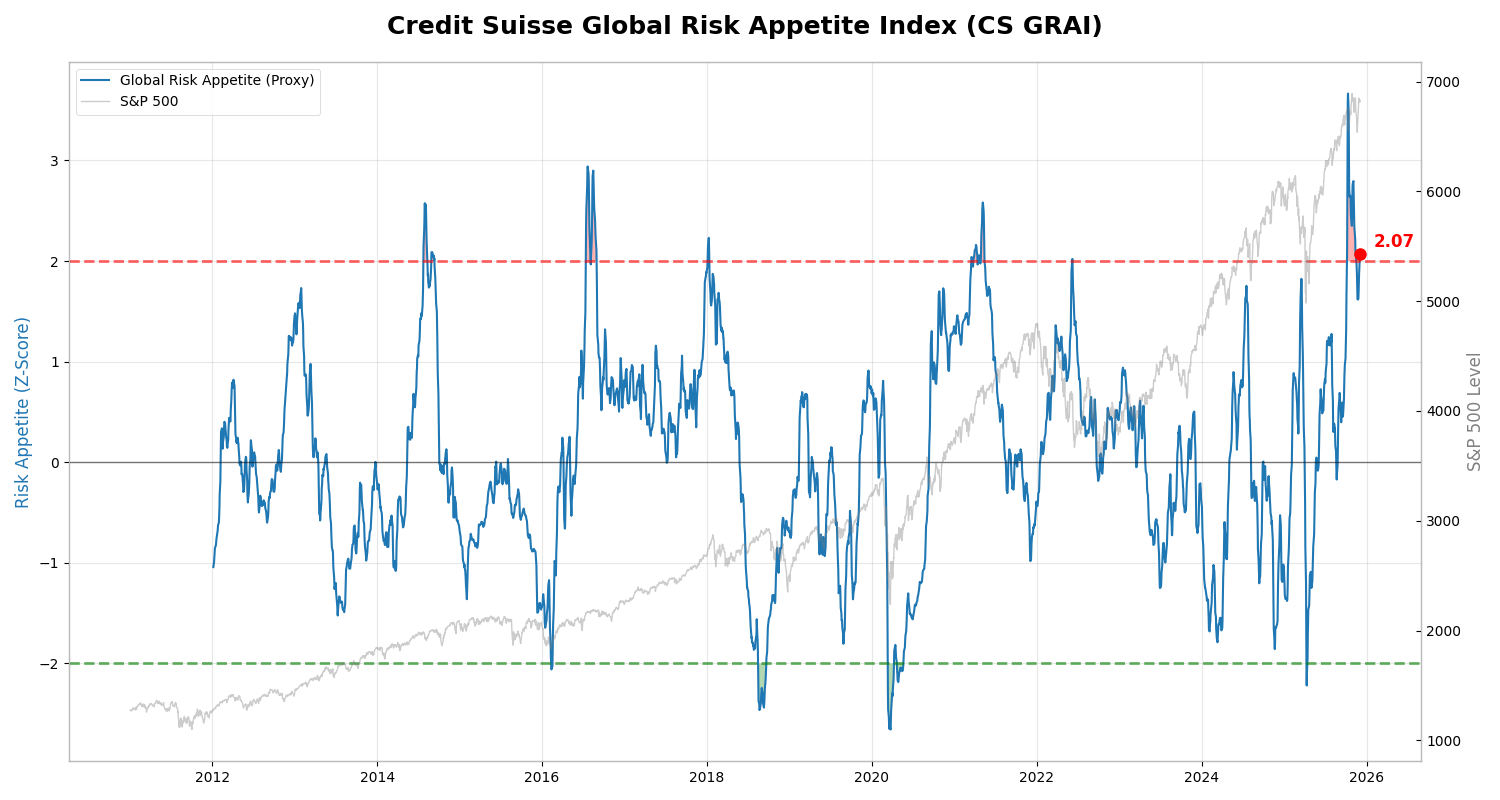
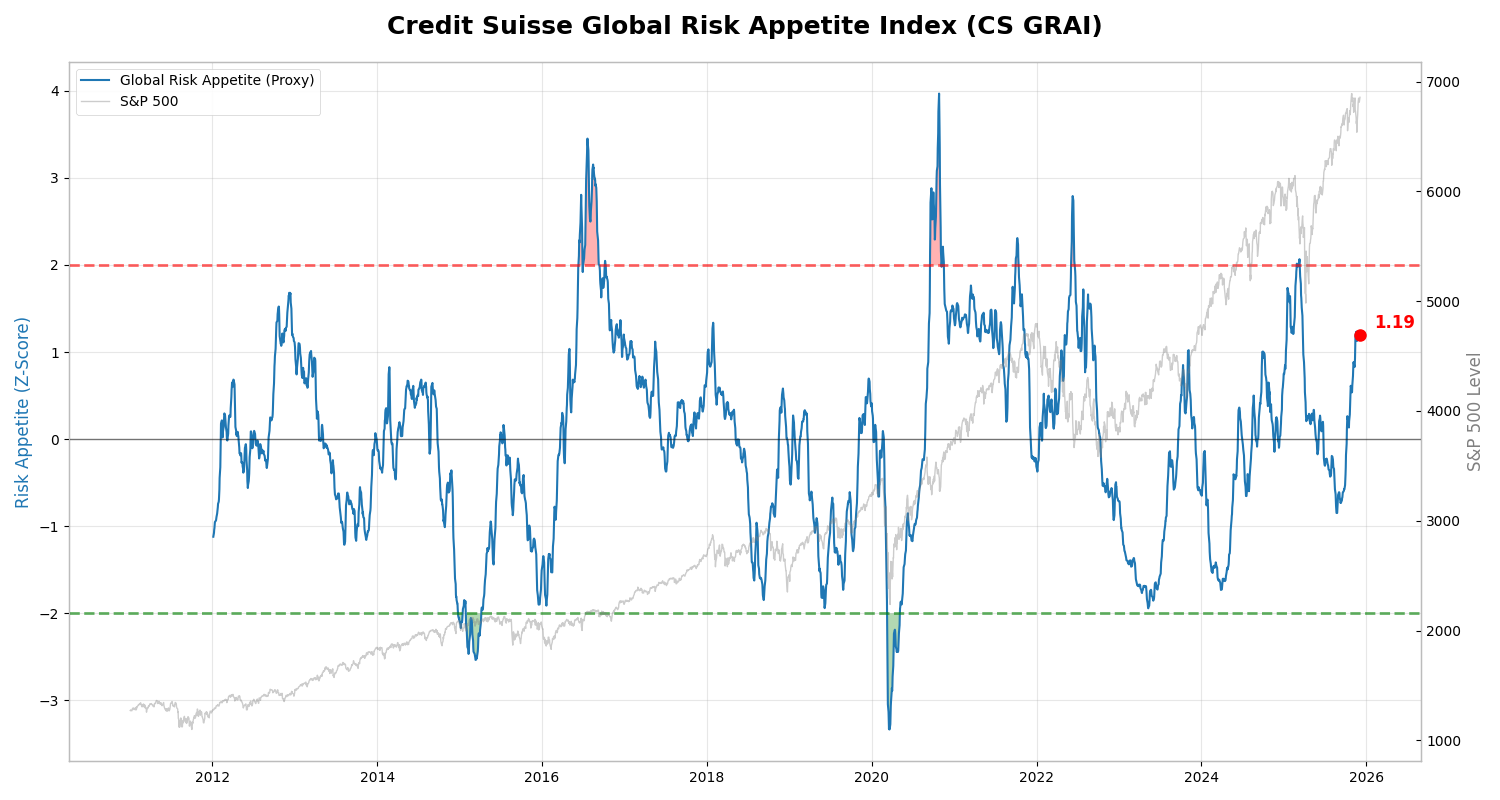
update csgrai.py.

diff --git a/csgrai.py b/csgrai.py
@@ -25,8 +25,15 @@ DM_BONDS = ['SHY', 'IEF', 'TLT', 'BWX', 'IGOV']
 EM_EQUITIES = ['EEM', 'FXI', 'EWY', 'EWT', 'INDA', 'EWZ', 'EWW', 'EZA', 'TUR']
 # 신흥국 채권
 EM_BONDS = ['EMB', 'EMLC']
-# 원자재 및 리츠
-COMMODITIES = ['GLD', 'SLV', 'USO', 'CPER', 'DBC', 'VNQ']
+# 원자재 (선물 직접 사용 - 추적오차 및 롤오버 비용 제거)
+COMMODITIES = [
+    'GC=F',   # Gold Futures (금 선물)
+    'SI=F',   # Silver Futures (은 선물)
+    'CL=F',   # WTI Crude Oil Futures (원유 선물)
+    'HG=F',   # Copper Futures (구리 선물)
+    'NG=F',   # Natural Gas Futures (천연가스 선물)
+    'VNQ'     # Vanguard Real Estate ETF (리츠 - 선물 대체재 없음)
+]
 # 벤치마크 (S&P 500)
 BENCHMARK = ['^GSPC']
 
@@ -39,6 +46,7 @@ UNIQUE_TICKERS = list(set(TICKERS))
 # ==============================================================================
 def clean_outliers(df: pd.DataFrame, threshold: float = 0.5) -> pd.DataFrame:
     """일간 수익률이 threshold(50%)를 초과하는 이상치 제거 (Data Cleaning)"""
+    print("  [Debug] clean_outliers 시작", flush=True)
     # 수익률 계산
     returns = df.pct_change()
     
@@ -47,32 +55,35 @@ def clean_outliers(df: pd.DataFrame, threshold: float = 0.5) -> pd.DataFrame:
     outlier_count = mask.sum().sum()
     
     if outlier_count > 0:
-        print(f"데이터 정제: 총 {outlier_count}개의 이상치(>50% 변동)를 감지하여 제거합니다.")
+        print(f"데이터 정제: 총 {outlier_count}개의 이상치(>50% 변동)를 감지하여 제거합니다.", flush=True)
         # 이상치를 NaN으로 처리하고 이전 값으로 채움
         df_clean = df.copy()
         df_clean[mask] = np.nan
         df_clean = df_clean.ffill()
+        print("  [Debug] clean_outliers 완료 (이상치 제거됨)", flush=True)
         return df_clean
     
+    print("  [Debug] clean_outliers 완료 (이상치 없음)", flush=True)
     return df
 
 def fetch_data(ticker_list: List[str], start_date: str = "2010-01-01") -> pd.DataFrame:
-    print("데이터 다운로드 중... (약 1분 정도 소요될 수 있습니다)")
+    print("데이터 다운로드 시작... (yf.download 호출)", flush=True)
     try:
         # auto_adjust=False 옵션 추가 (Adj Close 확보용)
         df = yf.download(ticker_list, start=start_date, progress=False, auto_adjust=False)
+        print("데이터 다운로드 완료 (yf.download 반환)", flush=True)
         
         if 'Adj Close' in df.columns:
             data = df['Adj Close']
         elif 'Close' in df.columns:
-            print("알림: 'Adj Close' 대신 'Close' 데이터를 사용합니다.")
+            print("알림: 'Adj Close' 대신 'Close' 데이터를 사용합니다.", flush=True)
             data = df['Close']
         else:
-            print("오류: 데이터 컬럼을 찾을 수 없습니다.")
+            print("오류: 데이터 컬럼을 찾을 수 없습니다.", flush=True)
             return pd.DataFrame()
             
     except Exception as e:
-        print(f"다운로드 오류: {e}")
+        print(f"다운로드 오류: {e}", flush=True)
         return pd.DataFrame()
 
     if data.empty:
@@ -84,8 +95,10 @@ def fetch_data(ticker_list: List[str], start_date: str = "2010-01-01") -> pd.Dat
     # 2. 데이터 품질 관리
     # 수정: 생존 편향 제거를 위해 dropna(axis=1) 및 dropna(axis=0, how='any') 삭제
     # 모든 자산이 NaN인 날짜만 제거
+    print("  [Debug] 데이터 품질 관리 (dropna/ffill) 시작", flush=True)
     data = data.dropna(axis=0, how='all') 
     data = data.ffill() # 결측치 채우기 (중간 결측 방지)
+    print("  [Debug] 데이터 품질 관리 완료", flush=True)
     
     # 벤치마크(^GSPC)가 있는 날짜부터 시작하도록 조정 (선택사항이나 그래프 매칭 위해 권장)
     if '^GSPC' in data.columns:
@@ -93,7 +106,7 @@ def fetch_data(ticker_list: List[str], start_date: str = "2010-01-01") -> pd.Dat
         if first_valid_idx is not None:
             data = data.loc[first_valid_idx:]
     
-    print(f"데이터 수집 완료: {data.shape[1]}개 자산, {data.shape[0]}일 데이터 (Dynamic Universe 적용)")
+    print(f"데이터 수집 완료: {data.shape[1]}개 자산, {data.shape[0]}일 데이터 (Dynamic Universe 적용)", flush=True)
     return data
 
 # ==============================================================================
@@ -117,7 +130,7 @@ def calculate_cs_grai(price_data: pd.DataFrame) -> pd.Series:
     total_days = len(price_data)
     dates = price_data.index
     
-    print("지수 산출 중... (잠시만 기다려주세요)")
+    print(f"지수 산출 시작... 총 {total_days - start_idx}일 처리 예정")
     
     for i in range(start_idx, total_days):
         current_date = dates[i]
@@ -163,8 +176,8 @@ def calculate_cs_grai(price_data: pd.DataFrame) -> pd.Series:
         
         grai_results[current_date] = slope
         
-        if i % 1000 == 0:
-            print(f"Processing: {current_date.date()} | Assets: {len(daily_df)}")
+        if i % 100 == 0:
+            print(f"Processing: {current_date.date()} | Assets: {len(daily_df)} | Progress: {i}/{total_days}")
 
     return pd.Series(grai_results)
 

diff --git a/verify_commodities.py b/verify_commodities.py
@@ -1,0 +1,60 @@
+import yfinance as yf
+import pandas as pd
+
+COMMODITIES = [
+    'GC=F',   # Gold Futures
+    'SI=F',   # Silver Futures
+    'CL=F',   # WTI Crude Oil Futures
+    'HG=F',   # Copper Futures
+    'NG=F',   # Natural Gas Futures
+    'VNQ'     # Vanguard Real Estate ETF
+]
+
+print(f"Testing data fetch for: {COMMODITIES}")
+
+try:
+    # Using the same parameters as in csgrai.py
+    df = yf.download(COMMODITIES, start="2023-01-01", progress=False, auto_adjust=False)
+    
+    print("\nDownload complete.")
+    print(f"Data shape: {df.shape}")
+    
+    if df.empty:
+        print("ERROR: Downloaded DataFrame is empty.")
+    else:
+        print("\nColumns:")
+        print(df.columns)
+        
+        # Check if we have data for all tickers
+        if isinstance(df.columns, pd.MultiIndex):
+            # yfinance returns MultiIndex columns if multiple tickers are downloaded
+            # Level 0 is usually 'Price' (Adj Close, Close, etc.), Level 1 is Ticker
+            # But with auto_adjust=False, it might be different.
+            # Let's inspect the 'Adj Close' or 'Close' level.
+            
+            if 'Adj Close' in df.columns.get_level_values(0):
+                data = df['Adj Close']
+                print("\n'Adj Close' data found.")
+            elif 'Close' in df.columns.get_level_values(0):
+                data = df['Close']
+                print("\n'Close' data found (Adj Close not available).")
+            else:
+                print("\nWARNING: Neither 'Adj Close' nor 'Close' found in top level columns.")
+                data = df
+                
+            print("\nMissing values per ticker:")
+            print(data.isnull().sum())
+            
+            print("\nFirst 5 rows:")
+            print(data.head())
+            
+            print("\nLast 5 rows:")
+            print(data.tail())
+            
+        else:
+            # Single ticker or flat index (less likely with multiple tickers)
+            print("\nFlat column index (unexpected for multiple tickers).")
+            print(df.head())
+
+except Exception as e:
+    print(f"\nAn error occurred: {e}")
